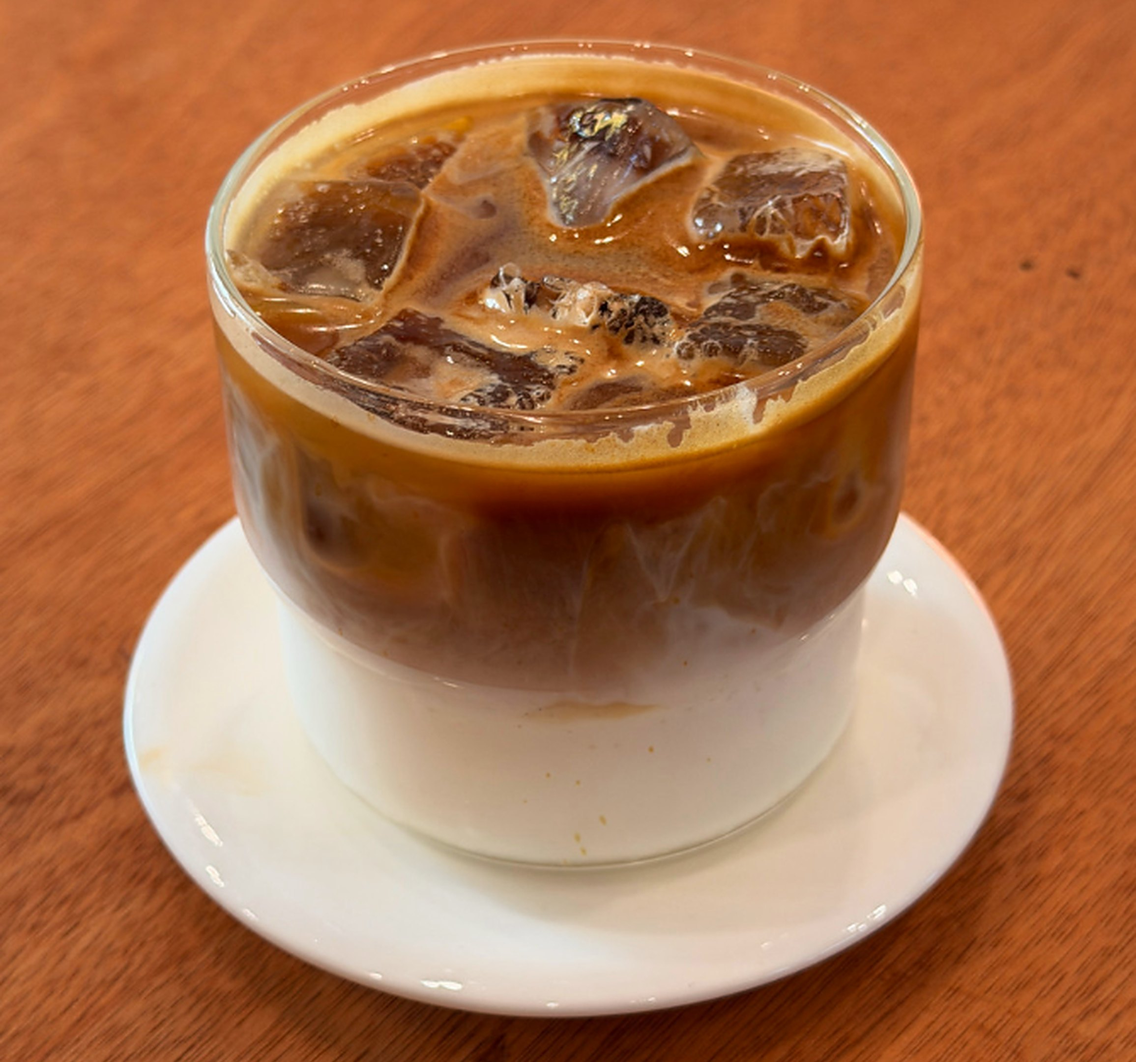
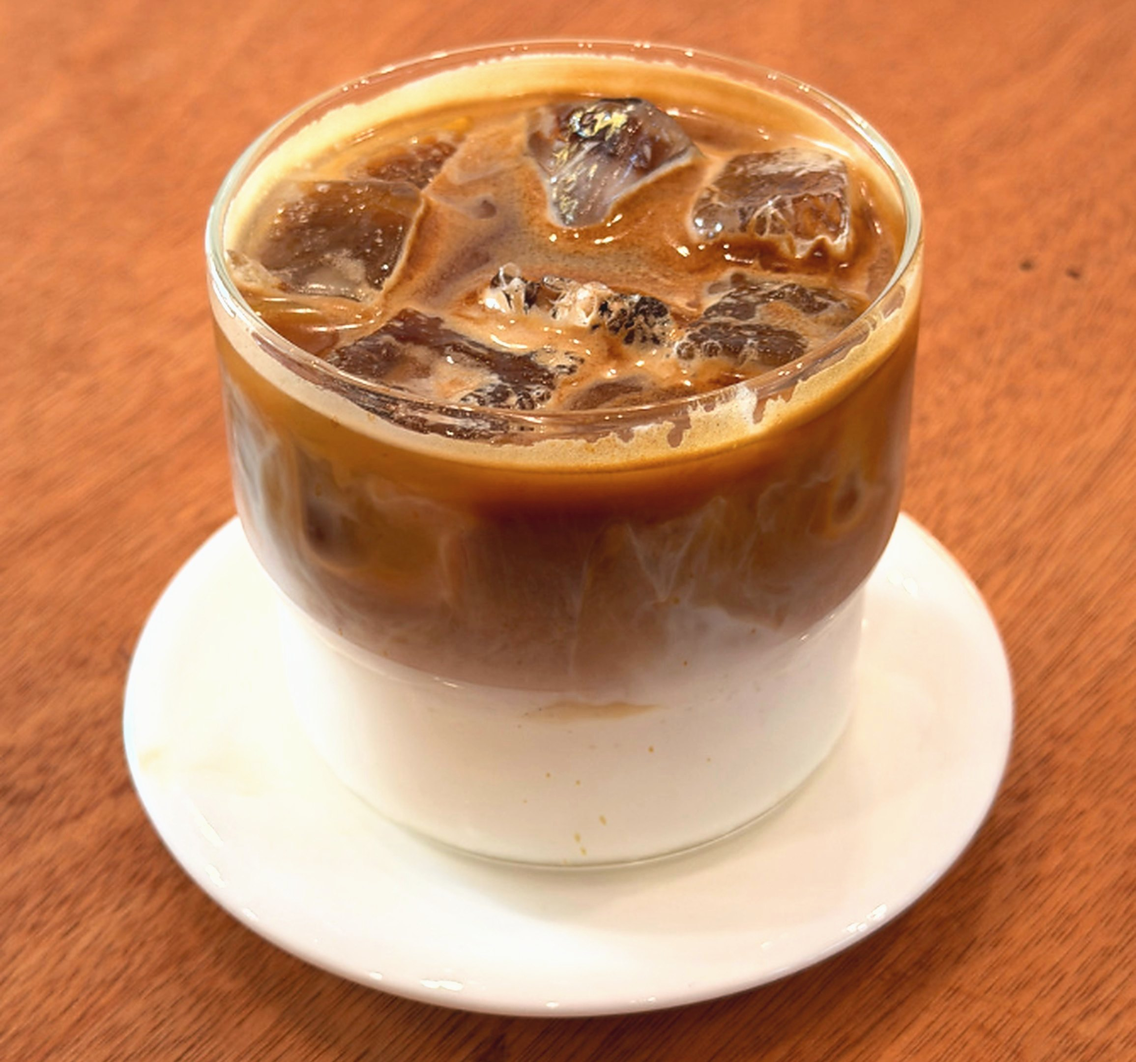
메인·슬라이드 사진 톤을 새 소금빵 사진 기준으로 통일
Claude-Session: https://claude.ai/code/session_012HYTAtRX4y2XSQaXUTKD2R

diff --git a/index.html b/index.html
@@ -99,13 +99,13 @@
 <div class="stage" id="stage">
   <div class="frame" id="frame" role="img" aria-label="Picky 카페 메뉴판: 소금빵 사진과 음료 메뉴">
     <div id="left">
-      <img id="photo" src="photo.jpg?v=9" alt="">
+      <img id="photo" src="photo.jpg?v=10" alt="">
       <div class="slides" id="slides" aria-hidden="true">
         <img class="slide" src="slides/05.jpg" alt="">
-        <img class="slide" src="slides/01.jpg" alt="">
-        <img class="slide" src="slides/02.jpg" alt="">
-        <img class="slide" src="slides/03.jpg" alt="">
-        <img class="slide" src="slides/04.jpg" alt="">
+        <img class="slide" src="slides/01.jpg?v=2" alt="">
+        <img class="slide" src="slides/02.jpg?v=2" alt="">
+        <img class="slide" src="slides/03.jpg?v=2" alt="">
+        <img class="slide" src="slides/04.jpg?v=2" alt="">
       </div>
       <canvas id="steam" aria-hidden="true"></canvas>
       <ul class="price" id="price">
